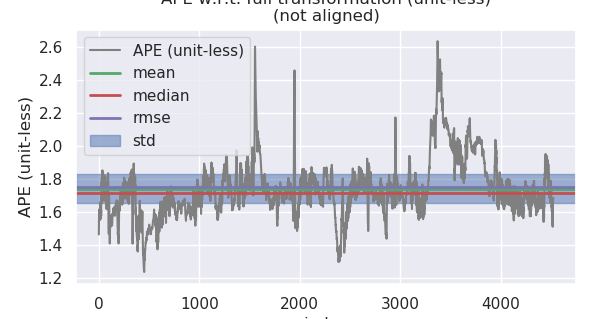
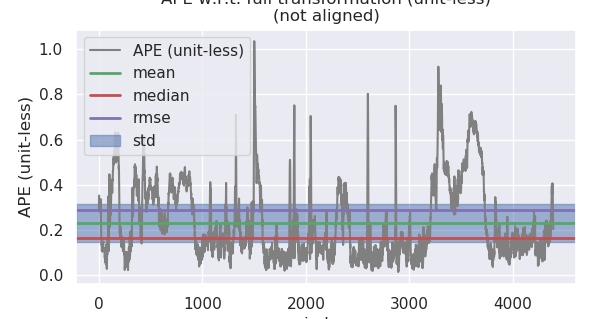
finish Q1, Assignment 04.

diff --git a/workspace/assignments/04-imu-lidar-gnss-fusion/src/lidar_localization/scripts/merge_bags.py b/workspace/assignments/04-imu-lidar-gnss-fusion/src/lidar_localization/scripts/merge_bags.py
@@ -1,0 +1,60 @@
+#! /usr/bin/python
+# -*- coding: utf-8 -*-
+
+import sys
+import argparse
+from fnmatch import fnmatchcase
+
+from rosbag import Bag
+
+def main():
+
+    parser = argparse.ArgumentParser(description='Merge one or more bag files with the possibilities of filtering topics.')
+    parser.add_argument('outputbag',
+                        help='output bag file with topics merged')
+    parser.add_argument('inputbag', nargs='+',
+                        help='input bag files')
+    parser.add_argument('-v', '--verbose', action="store_true", default=False,
+                        help='verbose output')
+    parser.add_argument('-t', '--topics', default="*",
+                        help='string interpreted as a list of topics (wildcards \'*\' and \'?\' allowed) to include in the merged bag file')
+
+    args = parser.parse_args()
+
+    topics = args.topics.split(' ')
+
+    total_included_count = 0
+    total_skipped_count = 0
+
+    if (args.verbose):
+        print("Writing bag file: " + args.outputbag)
+        print("Matching topics against patters: '%s'" % ' '.join(topics))
+
+    with Bag(args.outputbag, 'w') as o: 
+        for ifile in args.inputbag:
+            matchedtopics = []
+            included_count = 0
+            skipped_count = 0
+            if (args.verbose):
+                print("> Reading bag file: " + ifile)
+            with Bag(ifile, 'r') as ib:
+                for topic, msg, t in ib:
+                    if any(fnmatchcase(topic, pattern) for pattern in topics):
+                        if not topic in matchedtopics:
+                            matchedtopics.append(topic)
+                            if (args.verbose):
+                                print("Including matched topic '%s'" % topic)
+                        o.write(topic, msg, t)
+                        included_count += 1
+                    else:
+                        skipped_count += 1
+            total_included_count += included_count
+            total_skipped_count += skipped_count
+            if (args.verbose):
+                print("< Included %d messages and skipped %d" % (included_count, skipped_count))
+
+    if (args.verbose):
+        print("Total: Included %d messages and skipped %d" % (total_included_count, total_skipped_count))
+
+if __name__ == "__main__":
+    main()

diff --git a/workspace/assignments/04-imu-lidar-gnss-fusion/src/lidar_localization/scripts/generate_100hz_oxts.py b/workspace/assignments/04-imu-lidar-gnss-fusion/src/lidar_localization/scripts/generate_100hz_oxts.py
@@ -60,16 +60,18 @@ def main(config):
             config.input, 'oxts_extract', 'data' , '{:010d}.txt'.format(x)
         )
     )
+    df_timestamps_extract = df_timestamps_extract.drop_duplicates(subset=['timestamp'], keep='first')
     df_timestamps_sync['input_data'] = df_timestamps_sync.index.to_series().apply(
         lambda x: os.path.join(
             config.input, 'oxts_sync', 'data' , '{:010d}.txt'.format(x)
         )
     )
+    df_timestamps_extract = df_timestamps_extract.drop_duplicates(subset=['timestamp'], keep='first')
 
     # concate extract & sync then sort by timestamp:
     df_timestamps = pd.concat(
         [df_timestamps_extract, df_timestamps_sync]
-    ).sort_values('timestamp').reset_index(
+    ).drop_duplicates(subset=['timestamp'], keep='first').sort_values('timestamp').reset_index(
         drop=True
     )
 

diff --git a/workspace/assignments/04-imu-lidar-gnss-fusion/src/lidar_localization/src/filtering/filtering_flow.cpp b/workspace/assignments/04-imu-lidar-gnss-fusion/src/lidar_localization/src/filtering/filtering_flow.cpp
@@ -21,7 +21,7 @@ FilteringFlow::FilteringFlow(
 ) {
     // subscriber:
     // a. IMU raw measurement:
-    imu_raw_sub_ptr_ = std::make_shared<IMUSubscriber>(nh, "/kitti/oxts/imu", 1000000);
+    imu_raw_sub_ptr_ = std::make_shared<IMUSubscriber>(nh, "/kitti/oxts/imu/extract", 1000000);
     // b. undistorted Velodyne measurement: 
     cloud_sub_ptr_ = std::make_shared<CloudSubscriber>(nh, "/synced_cloud", 100000);
     // c. lidar pose in map frame:

diff --git a/workspace/assignments/04-imu-lidar-gnss-fusion/README.md b/workspace/assignments/04-imu-lidar-gnss-fusion/README.md
@@ -77,7 +77,13 @@ This is the solution of Assignment 04 of Sensor Fusion from [深蓝学院](https
     ```
 5. 然后运行`kitti2bag`, 产生用于`LIO/VIO Filtering/Graph Optimization`的ROS Bag
 
-在`kitti_2011_10_03_drive_0027_sync`上得到的ROS Bag Info如下:
+6. 为了提高`lidar-IMU-GNSS`配准的精度, 方便`evo`的精度评估:
+
+    * 删除`sync.bag`中的`\tf_static`, `\tf`
+    * 保留`extract.bag`中的`\tf_static`, `\tf`和`/kitti/oxts/imu`, 并将`/kitti/oxts/imu`重命名为`/kitti/oxts/imu/extract`
+    * 合并上述两生成bag, 作为最终的`synced.bag`
+
+在`kitti_2011_10_03_drive_0027_synced`上得到的ROS Bag Info如下:
 
 ```bash
 $ rosbag info kitti_2011_10_03_drive_0027_synced.bag
@@ -85,11 +91,11 @@ $ rosbag info kitti_2011_10_03_drive_0027_synced.bag
 path:        kitti_2011_10_03_drive_0027_synced.bag
 version:     2.0
 duration:    7:51s (471s)
-start:       Oct 03 2011 12:55:34.48 (1317646534.48)
-end:         Oct 03 2011 13:03:25.83 (1317647005.83)
+start:       Oct 03 2011 20:55:34.93 (1317646534.93)
+end:         Oct 03 2011 21:03:26.01 (1317647006.01)
 size:        24.1 GB
-messages:    292116
-compression: none [18267/18267 chunks]
+messages:    192006
+compression: none [18243/18243 chunks]
 types:       geometry_msgs/TwistStamped [98d34b0043a2093cf9d9345ab6eef12e]
              sensor_msgs/CameraInfo     [c9a58c1b0b154e0e6da7578cb991d214]
              sensor_msgs/Image          [060021388200f6f0f447d0fcd9c64743]
@@ -105,12 +111,14 @@ topics:      /kitti/camera_color_left/camera_info     4544 msgs    : sensor_msgs
              /kitti/camera_gray_left/image_raw        4544 msgs    : sensor_msgs/Image         
              /kitti/camera_gray_right/camera_info     4544 msgs    : sensor_msgs/CameraInfo    
              /kitti/camera_gray_right/image_raw       4544 msgs    : sensor_msgs/Image         
-             /kitti/oxts/gps/fix                     50244 msgs    : sensor_msgs/NavSatFix     
-             /kitti/oxts/gps/vel                     50244 msgs    : geometry_msgs/TwistStamped
-             /kitti/oxts/imu                         50244 msgs    : sensor_msgs/Imu           
+             /kitti/oxts/gps/fix                      4544 msgs    : sensor_msgs/NavSatFix     
+             /kitti/oxts/gps/vel                      4544 msgs    : geometry_msgs/TwistStamped
+             /kitti/oxts/imu                          4544 msgs    : sensor_msgs/Imu           
+             /kitti/oxts/imu/extract                 45826 msgs    : sensor_msgs/Imu           
              /kitti/velo/pointcloud                   4544 msgs    : sensor_msgs/PointCloud2   
-             /tf                                     50244 msgs    : tf2_msgs/TFMessage        
-             /tf_static                              50244 msgs    : tf2_msgs/TFMessage
+             /tf                                     45826 msgs    : tf2_msgs/TFMessage        
+             /tf_static                              45826 msgs    : tf2_msgs/TFMessage
+
 ```
 
 基于`Eigen`与`Sophus`的`Error-State Kalman Fusion`实现参考[here](src/lidar_localization/src/models/kalman_filter/kalman_filter.cpp)
@@ -118,6 +126,8 @@ topics:      /kitti/camera_color_left/camera_info     4544 msgs    : sensor_msgs
 `IMU-Lidar Error-State Kalman Fusion Odometry`与`GNSS Groud Truth`的对比如下图所示. 其中`黄色`为`GNSS Groud Truth`, `红色`为`Lidar Odometry`, `蓝色`为`IMU-Lidar Fusion Odometry`:
 
 <img src="doc/images/01-IMU-lidar-fusion.png" alt="IMU-Lidar Fusion v.s. GNSS" width="100%">
+
+<img src="doc/images/01-IMU-lidar-fusion-micro.png" alt="IMU-Lidar Fusion v.s. GNSS Micro" width="100%">
 
 可通过如下`ROS Service Call`, 比较融合前后的Odometry: 
 
@@ -135,7 +145,7 @@ evo_ape kitti ground_truth.txt fused.txt -r full --plot --plot_mode xy
 
 两者的KPI比较参照下表. 
 
-在`2011_10_03_drive_0027_extract`上, 两者的估计性能相近, `IMU-Lidar Fusion`结果略优.
+在`2011_10_03_drive_0027_extract`上, 两者的估计性能相近, `IMU-Lidar Fusion`的估计精度略优.
 
 Lidar Only                 |IMU-Lidar Fusion
 :-------------------------:|:-------------------------:
@@ -143,13 +153,13 @@ Lidar Only                 |IMU-Lidar Fusion
 
 |  Algo. |  Lidar Only   |  IMU-Lidar    |
 |:------:|:-------------:|:-------------:|
-|   max  |   2.638827    |    2.637105   |
-|  mean  |   1.748553    |    1.742532   |
-| median |   1.729221    |    1.718721   |
-|   min  |   1.234703    |    1.237628   |
-|  rmse  |   1.757275    |    1.751481   |
-|   sse  | 13967.101578  | 13875.137013  |
-|   std  |   0.174870    |    0.176829   |
+|   max  |   1.059857    |    1.035433   |
+|  mean  |   0.228137    |    0.232957   |
+| median |   0.160143    |    0.165522   |
+|   min  |   0.015406    |    0.015572   |
+|  rmse  |   0.284854    |    0.288054   |
+|   sse  |  356.212471   |  364.259559   |
+|   std  |   0.170574    |    0.169428   |	
 
 ---
 
